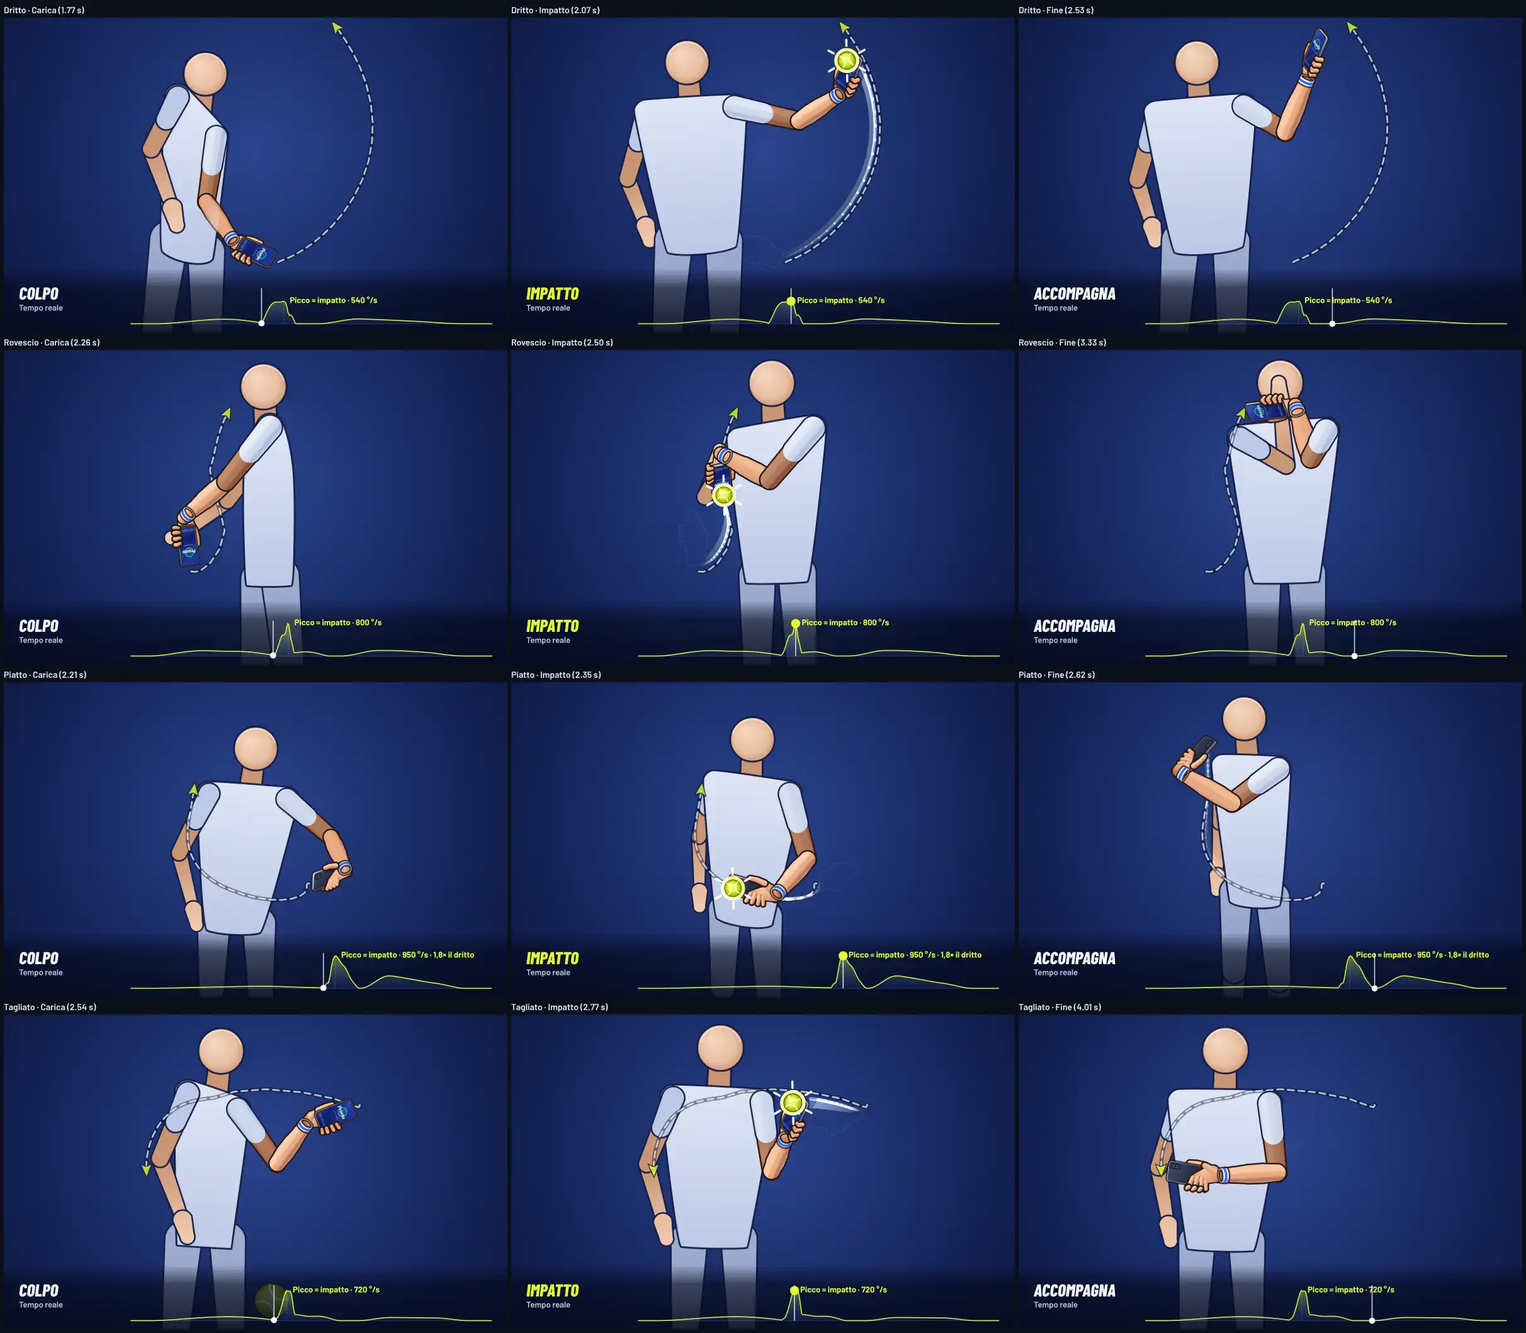
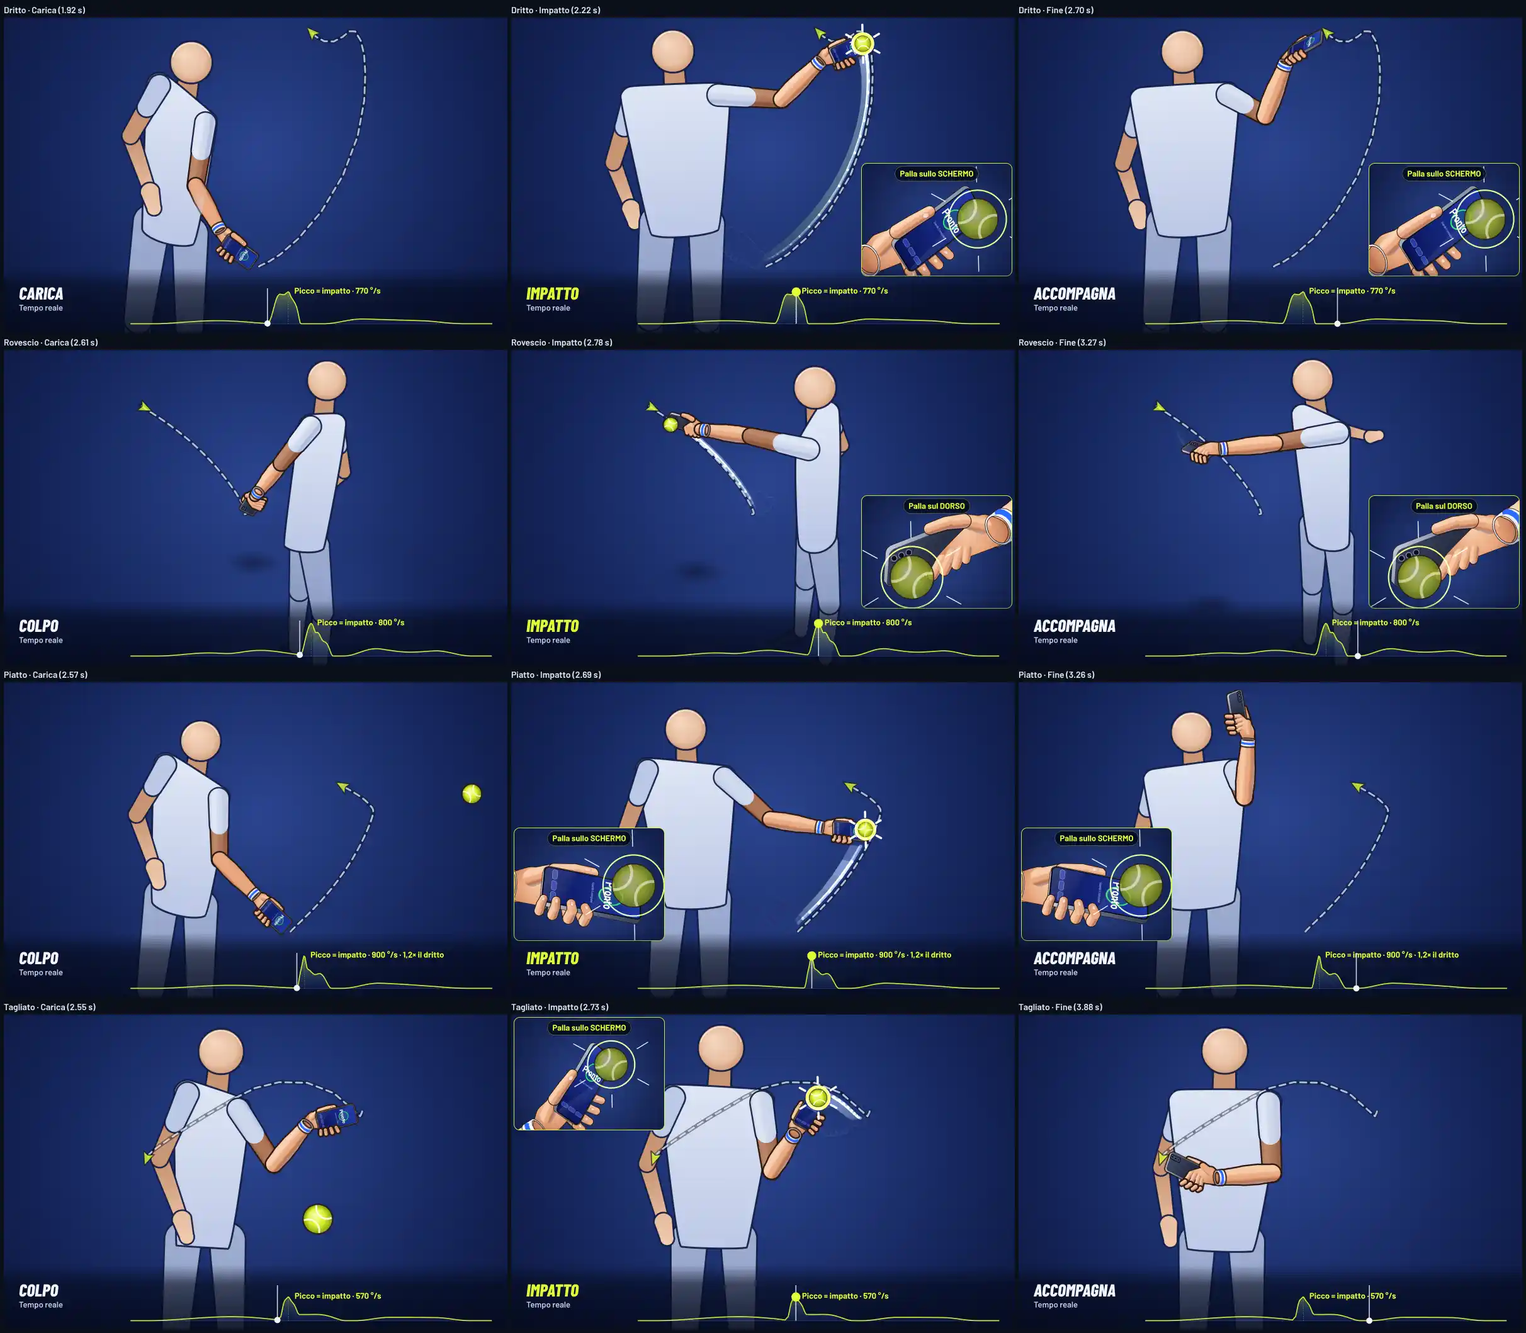
B17.1 passo C2: primo piano rifinito (dorso visto dalla cima, palla velata, posto che evita il braccio libero, specchio del mancino), fogli VC, O e C-anim rifatti e guardati, confronto con il primo piano dell'animazione, gesti-dal-video.md §7, stato
Claude-Session: https://claude.ai/code/session_014xUKe3fJojkqNghZjqDcyr

diff --git a/natpf-tennis/src/natpf/natpf_gesture_demo.js b/natpf-tennis/src/natpf/natpf_gesture_demo.js
@@ -1127,11 +1127,13 @@ export function ghostAlpha(P, keys, i, t, follow){
 // DORSO»). La camera del primo piano guarda la faccia che colpisce di lato, IMPACT_CLOSE.side attorno all'asse del telefono
 // verso la camera principale (stesso lato dell'immagine grande) e IMPACT_CLOSE.tilt verso il fondo del telefono: la palla, che
 // sta davanti alla faccia vicino alla cima, si proietta in parte fuori dal telefono e lascia vedere il vetro con «Pronto» o il
-// dorso con le fotocamere (provati 35° verso il fondo e 20° di lato: nel rovescio la mano, più vicina alla camera, copriva il
-// dorso); a 1,1 m, con la mano intera nel quadro; specchiata come la camera principale. Il riquadro si disegna una volta per scheda, mano e misura e poi si copia (costo di
+// dorso con le fotocamere. Per il dorso (rovescio, tagliato di rovescio) tiltBack/sideBack: 30° verso la CIMA e 50° di lato,
+// perché il palmo sta sul dorso e, guardato dalla parte del fondo, la mano più vicina alla camera copriva il dorso (provati
+// 35°/20°, 10°/45°, 0°/65°: fogli nello scratchpad b17C2). A 1,1 m, con la mano intera nel quadro; specchiata come la camera
+// principale. La palla nel primo piano è velata (0,6) con il contorno pieno: copre quasi tutta la larghezza del telefono. Il riquadro si disegna una volta per scheda, mano e misura e poi si copia (costo di
 // un drawImage); il posto (uno dei quattro angoli dello stadio sopra la banda) è quello che copre meno il soggetto vivo
 // (telefono, mano, braccio, palla) dal contatto alla fine del riquadro, poi il busto. Solo disegno: la posa non cambia.
-export const IMPACT_CLOSE = Object.freeze({ tilt: 10, side: 45, from: -.07, fadeIn: .05, hold: 1.0, fadeOut: .15, w: .3, aspect: .75 });
+export const IMPACT_CLOSE = Object.freeze({ tilt: 10, side: 45, tiltBack: -30, sideBack: 50, from: -.04, fadeIn: .03, hold: 1.0, fadeOut: .15, w: .3, aspect: .75 });
 const FACE_TEXT = Object.freeze({ 1: 'Palla sullo SCHERMO', '-1': 'Palla sul DORSO' });
 export const impactCloseText = id => IMPACT_FACE[id] ? FACE_TEXT[IMPACT_FACE[id] > 0 ? 1 : '-1'] : null;
 // visibilità del riquadro all'istante t (0…1)
@@ -1147,7 +1149,7 @@ export function impactCloseSize(W, H){
 // camera del primo piano: posa del telefono R e punto di contatto CP (mondo della posa disegnata), camera principale
 function impactCloseCam(R, CP, ball, main, w, h, cap, H_){
   const n0 = qrot(R.q, [0, 0, 1]), nf = mul(n0, dot(n0, sub(CP, R.pos)) >= 0 ? 1 : -1), ay = qrot(R.q, [0, 1, 0]), ax = qrot(R.q, [1, 0, 0]);
-  const K = IMPACT_CLOSE, a = K.tilt*Math.PI/180, b = K.side*Math.PI/180, sx = dot(ax, sub(main.eye, R.pos)) >= 0 ? 1 : -1;
+  const K = IMPACT_CLOSE, back = dot(nf, n0) < 0, a = (back ? K.tiltBack : K.tilt)*Math.PI/180, b = (back ? K.sideBack : K.side)*Math.PI/180, sx = dot(ax, sub(main.eye, R.pos)) >= 0 ? 1 : -1;
   const dir = norm(add(add(mul(nf, Math.cos(a)*Math.cos(b)), mul(ay, -Math.sin(a))), mul(ax, sx*Math.sin(b)*Math.cos(a))));
   const T = v => add(R.pos, qrot(R.q, v)), pts = [];
   for (const [x, y] of [[-HW, -HH], [HW, -HH], [-HW, HH], [HW, HH]]) for (const z of [-HD, HD]) pts.push(T([x, y, z]));
@@ -1286,8 +1288,9 @@ export class NatpfGestureDemo {
     // metà opacità con il contorno tratteggiato, così all'impatto non sparisce mai (brief §5.6.2)
     else if (ball && ballFirst && ballAlpha > .01 && !K.figure && F.phoneHull) drawBallThrough(c, cam, ball, spin, st, F.phoneHull, ballAlpha);
     if (CPm && !impactBehind) drawImpact(c, cam, CPm, tt - P.contact, st);
-    // primo piano dell'impatto (passo C2): le etichette dei fantasmi non ci vanno mai sopra (il suo posto è fisso per scheda)
-    const close = !compact && !K.close && IMPACT_FACE[id] && wholeFrame(CS, W, H) ? this._impactClose(M, u) : null;
+    // primo piano dell'impatto (passo C2): le etichette dei fantasmi non ci vanno mai sopra (il suo posto è fisso per scheda).
+    // Solo con le coreografie del video e la camera della scheda (gli strumenti che sostituiscono demo._cam, fogli O, non lo hanno)
+    const close = !compact && !K.close && IMPACT_FACE[id] && M.set === 'video' && wholeFrame(CS, W, H) && !Object.hasOwn(this, '_cam') ? this._impactClose(M, u) : null;
     if (!compact && !K.hud){
       const taken = close ? [close.box] : [];
       for (const g of ghosts) if (g.a > .01) this._ghostLabel(c, cam, g, F, u, taken);
@@ -1318,7 +1321,10 @@ export class NatpfGestureDemo {
     const behind = ballBehind(ccam, Rc, ball);
     if (behind) drawBall(x, ccam, ball, .6, sti);
     const F = drawFigure(x, ccam, Rc, sti, H_);
-    if (!behind) drawBall(x, ccam, ball, .6, sti); else if (F.phoneHull) drawBallThrough(x, ccam, ball, .6, sti, F.phoneHull, 1);
+    // palla davanti alla faccia: velata (0,6) con il contorno pieno, così sotto si legge la faccia che colpisce (vetro con
+    // «Pronto» o dorso con le fotocamere: la palla, 6,6 cm, copre quasi tutta la larghezza del telefono, 7,9 cm)
+    if (!behind){ const bb = drawBall(x, ccam, ball, .6, sti, .6); x.beginPath(); x.arc(bb.p.x, bb.p.y, bb.r, 0, 2*Math.PI); x.lineWidth = Math.max(1.5, sti.ow*1.2); x.strokeStyle = css(LINE, .9); x.stroke(); }
+    else if (F.phoneHull) drawBallThrough(x, ccam, ball, .6, sti, F.phoneHull, 1);
     drawImpact(x, ccam, CP, .015, sti);
     x.restore();
     x.beginPath(); x.roundRect(1, 1, w - 2, h - 2, r); x.lineWidth = 2; x.strokeStyle = css(BALL, .9); x.stroke();
@@ -1328,7 +1334,9 @@ export class NatpfGestureDemo {
     const n0 = qrot(Rc.q, [0, 0, 1]), nf = mul(n0, face), ang = cm => Math.acos(Math.max(-1, Math.min(1, dot(nf, norm(sub(cm.eye, Rc.pos))))))/D;
     // posto: l'angolo che copre meno il soggetto vivo (telefono, mano, braccio, palla) dal contatto alla fine del riquadro, poi il
     // busto; a pari merito in alto e dalla parte opposta alla mano all'impatto
-    const m = 8, cands = [[m, m], [st.W - w - m, m], [m, top - h - m], [st.W - w - m, top - h - m]].map(([x0, y0]) => ({ x0, y0, x1: x0 + w, y1: y0 + h }));
+    // (a pari merito vince il primo: per il mancino l'ordine è specchiato, così il riquadro è lo specchio di quello del destro)
+    const m = 8, L = this.hand === 'left', xl = m, xr = st.W - w - m, names = L ? ['alto a destra', 'alto a sinistra', 'basso a destra', 'basso a sinistra'] : ['alto a sinistra', 'alto a destra', 'basso a sinistra', 'basso a destra'];
+    const cands = [[L ? xr : xl, m], [L ? xl : xr, m], [L ? xr : xl, top - h - m], [L ? xl : xr, top - h - m]].map(([x0, y0]) => ({ x0, y0, x1: x0 + w, y1: y0 + h }));
     const handX = main.p(Rc.pos).x, cost = cands.map((b, i) => (i > 1 ? .5 : 0) + (Math.abs((b.x0 + b.x1)/2 - handX) < st.W/2 ? .25 : 0));
     // campioni fitti attorno al contatto (il telefono del piatto attraversa 100 px in 0,1 s) e radi fino alla fine del riquadro
     const K = IMPACT_CLOSE, N = 10, TS = [-.05, -.03, -.015, 0, .015, .03, .05].map(k => P.contact + k);
@@ -1340,11 +1348,14 @@ export class NatpfGestureDemo {
       const occ = liveTest(Fs);
       const bR = gestureBall(id, ts, { ...o, hand: this.hand }), bs = bR ? (this.hand === 'left' ? mirrorPos(bR) : bR) : null, bp = bs ? cm.p(bs) : null, br = bs ? cm.rad(bs, BALL_R) : 0;
       const B = Rs.chain ? bodyGeom(cm, Rs.chain) : null;
+      // braccio libero che lavora (equilibrio del rovescio a una mano): anche lui non va sotto il riquadro
+      const fr = gestureFreeHand(id, ts, o), FA = fr && Rs.chain ? freeArm(Rs, fr) : null, fpts = FA ? [FA.W, add(FA.W, mul(sub(FA.E, FA.W), .5)), FA.E].map(X => cm.p(X)) : [];
       // all'impatto (primi campioni) telefono, mano e palla vivi non vanno mai sotto il riquadro
       const hard = ts <= P.contact + .05 ? 50 : 1;
       cands.forEach((b, i) => {
         cost[i] += occ(b)*2*hard + (liveHits(Fs, b) ? 6*hard : 0);
         if (bp && bp.x + br > b.x0 && bp.x - br < b.x1 && bp.y + br > b.y0 && bp.y - br < b.y1) cost[i] += 8*hard;
+        for (const q of fpts) if (q.x > b.x0 - 6 && q.x < b.x1 + 6 && q.y > b.y0 - 6 && q.y < b.y1 + 6) cost[i] += 2;
         if (B){ const q = B.box, ov = Math.max(0, Math.min(q.x1, b.x1) - Math.max(q.x0, b.x0))*Math.max(0, Math.min(q.y1, b.y1) - Math.max(q.y0, b.y0)); cost[i] += ov/(w*h)*3;
           // la testa coperta si nota più del busto
           const hc = B.head.c; if (Math.hypot(Math.max(b.x0 - hc.x, 0, hc.x - b.x1), Math.max(b.y0 - hc.y, 0, hc.y - b.y1)) < B.head.r) cost[i] += 3; }
@@ -1353,7 +1364,7 @@ export class NatpfGestureDemo {
     let bi = 0; cost.forEach((v, i) => { if (v < cost[bi] - 1e-9) bi = i; });
     const b = cands[bi];
     this._closeKey = key;
-    return (this._closeV = { cv, rect: { x: b.x0, y: b.y0, w, h }, box: b, meta: { text, face, cost: cost[bi], faceToClose: ang(ccam), faceToMain: ang(main), corner: ['alto a sinistra', 'alto a destra', 'basso a sinistra', 'basso a destra'][bi] } });
+    return (this._closeV = { cv, rect: { x: b.x0, y: b.y0, w, h }, box: b, meta: { text, face, cost: cost[bi], faceToClose: ang(ccam), faceToMain: ang(main), corner: names[bi] } });
   }
   // fondo: gradiente radiale più chiaro al centro dello stadio (fatto una volta per misura e copiato), piano di gioco
   // accennato sotto la mano (alone e ombra morbida della mano): dà alto e basso senza linee che tagliano il quadro

diff --git a/docs/b17/gesti-dal-video.md b/docs/b17/gesti-dal-video.md
@@ -1,5 +1,8 @@
 # B17.1 · passo C · Il disegno dei gesti come il video: camera frontale specchiata, gesto intero, figura chiara
 
+> **Passo C2 (10/11)**: disegno allineato al passo B3 — primo piano dell'impatto («Palla sullo SCHERMO» nei colpi di dritto,
+> «Palla sul DORSO» nei rovesci) e braccio libero del rovescio a una mano in vista: §7 (misure, decisioni, limiti).
+>
 > **Passo B3 (10/11 notte)**: il rovescio è ora **a una mano** (decisione dell'utente) e all'impatto il dritto colpisce con lo
 > schermo verso la palla, il rovescio con il dorso; coreografie, camere di piatto, volée e incrociato e misure aggiornate in
 > `docs/b17/ottimizzazione.md` §9. Le righe qui sotto sul «rovescio a due mani» descrivono il passo C.
@@ -133,3 +136,80 @@ nelle misure.
 - Scheda «Presa»: la presa è quella del video (`PHONE_IN_HAND_VIDEO`) nella posa delle foto (B2); ora vista come allo specchio.
   La foto dell'utente da davanti è quella del B2 (giudicata coerente lì), non riesaminata in questo passo.
 - I fogli VC si guardano su 10 istanti: scatti tra un istante e l'altro sono controllati solo dalla prova delle sequenze.
+
+## 7. Passo C2 (10/11/2026): rovescio a una mano e faccia che colpisce, nel disegno
+Richieste dell'utente del 09/11 notte sulle anteprime VC-*: (1) «Per il rovescio, a una mano»; (2) «con il dritto la pallina venga
+colpita con il display in maniera frontale»; (3) «il rovescio invece stesso movimento ma con l'altro lato». Le coreografie sono
+quelle del passo B3 (`docs/b17/ottimizzazione.md` §9: faccia che colpisce entro 17° dalla rete, incrociato 21,1°); qui cambia
+solo il disegno (`natpf_gesture_demo.js`, costanti del braccio libero in `natpf_gesture_pose.js`). Riconoscimento non toccato.
+
+### 7.1 Che cosa vede la camera principale all'impatto (misura, 640×400, destro = mancino)
+| Scheda | Faccia che colpisce | Angolo tra la faccia e il raggio verso la camera | Telefono all'impatto | Palla |
+|---|---|---|---|---|
+| Dritto / piatto / volée | schermo | 28° / 26° / 26° | 42 / 43 / 48 px | davanti al vetro |
+| Incrociato / lungolinea | schermo | 24° / 43° | 44 / 36 px | davanti al vetro |
+| Tagliato di dritto | schermo | 10° | 51 px | davanti al vetro |
+| Rovescio | dorso | 53° | 34 px | davanti al dorso |
+| Tagliato di rovescio | dorso | 49° | 43 px | davanti al dorso |
+
+Le camere frontali del passo C stanno dalla parte della rete: all'impatto vedono proprio la faccia che colpisce (sotto 90° in
+tutti i colpi), quindi la vista principale è già quella giusta. Ma a 640×400 il telefono è lungo 34–51 px e la palla (6,6 cm,
+quasi la larghezza del telefono, 7,9 cm), che arriva dalla camera, ne copre metà: schermo e dorso non si distinguono (fotogrammi
+nello scratchpad `b17C2/a.png`). Girare la camera principale non serve (la faccia è già verso la camera) e ingrandire il telefono
+toglie il gesto intero. **Decisione: primo piano dell'impatto** in un riquadro.
+
+### 7.2 Primo piano dell'impatto (`IMPACT_CLOSE`)
+- Da 640×400 in su (camera ferma sul gesto intero), nei colpi con la faccia d'impatto (dritto, piatto, incrociato, lungolinea,
+  tagliato, volée: «Palla sullo SCHERMO»; rovescio e tagliato di rovescio: «Palla sul DORSO»). A 448×280 e 200×200 nessun
+  riquadro: lì la camera segue la mano e il telefono all'impatto è lungo 47–99 px.
+- Compare 40 ms prima del contatto (pieno 10 ms prima) e resta fino a 1 s del gesto dopo il contatto (2 s nel rallentato ×0,5),
+  poi si spegne in 0,15 s. È il fermo immagine dell'impatto: la mano con il telefono e la palla appoggiata sulla faccia che
+  colpisce, il lampo, la scritta in giallo.
+- Camera del primo piano: dalla parte della palla, 45° di lato verso la camera principale e 10° verso il fondo per lo schermo;
+  per il dorso 50° di lato e 30° verso la cima (il palmo sta sul dorso: dal fondo la mano copriva il dorso; provati 35°/20°,
+  10°/45°, 0°/65°). Faccia che colpisce a 45° (schermo) e 54–55° (dorso) dal raggio del primo piano. Palla velata (0,6) con il
+  contorno pieno: sotto si leggono il vetro con «Pronto» o il dorso con le fotocamere. Specchiata come la camera principale
+  (il mancino vede lo specchio, riquadro nell'angolo speculare: test).
+- Posto: uno dei quattro angoli dello stadio sopra la banda della curva, scelto una volta per scheda, mano e misura: mai sopra
+  telefono, mano e palla vivi attorno al contatto (prova esatta sulle sagome, `liveHits`), poi il meno possibile sopra il
+  soggetto e il braccio libero fino alla fine del riquadro, poi testa e busto. Le etichette dei fantasmi lo evitano.
+- Costo: il riquadro si disegna una volta per scheda (canvas a parte, al primo fotogramma della scheda: 5–9 ms una volta, a
+  640×400 e a 1600×1000, contro ~1 ms di un fotogramma normale) e poi si copia; disegno a 640×400 su tutte le schede media
+  1,16 ms per fotogramma, con la rasterizzazione 2,36 ms (≤ 4); nelle esecuzioni intermedie 1,26–1,41 / 2,55–2,77 ms (la misura
+  oscilla di ~0,2 ms tra un'esecuzione e l'altra). `natpf-modale-gesti` 18/18: 59,9 fps a 1280×720 e 60,2 fps a 1920×1080
+  sopra l'arena ferma (Chromium senza GPU, disegno 1,2–1,3 ms), due animazioni insieme 57,7 fps.
+
+### 7.3 Rovescio a una mano: il braccio libero
+Nel passo B3 la mano libera non toccava più il telefono, ma con la camera davanti a destra (busto quasi di profilo) l'equilibrio
+non si vedeva: la mano aperta «dietro e di lato» (−0,42; 0,18; 0,30) restava dietro il busto, e nella carica (−0,24; 0; 0,08)
+era una mano sull'anca con il gomito in fuori. Ora: `FREE_BALANCE` (−0,34; 0,16; 0,50) dal bacino nel riferimento del busto,
+braccio disteso dietro e un poco in basso, «ad ali» come nei rovesci a una mano (si vede uscire dietro la schiena dal contatto
+alla fine: test, mano fuori dalla sagoma del busto in ≥ 80 % dei campioni dell'accompagnamento); `FREE_PREP` (−0,26; −0,04;
+−0,10) rilassata davanti al fianco, a ≥ 0,3 m dal telefono. Solo disegno.
+
+### 7.4 Prove (passo C2)
+- `natpf-gesti-fotogrammi` 31/31 (ultima esecuzione con i fogli): lista del B9 come nel passo B3 (limiti dichiarati di allora invariati: rovescio 20 % a
+  640×400 e 19 % a 1600×1000, dritto, lungolinea, volée, tagliato di rovescio 27 % a 1600×1000) più il primo piano: presente
+  all'impatto con la scritta giusta, mai sopra telefono, mano, palla o etichette, dentro lo stadio.
+- Test del gioco nuovi: «primo piano dell'impatto…» (16 casi: scritta, angoli, posto, tempi, specchio, assente a 448×280 e
+  nei colpi senza faccia d'impatto) e il braccio libero in vista.
+- Fogli `VC-*.webp` (640×400: video specchiato | animazione | tutorial di prima) e `O-*.webp` rifatti; `C-anim-*.webp` nelle
+  quattro misure rifatti. Prove: confronto VC 29/29 (nuova: primo piano con la scritta giusta all'impatto, assente nel
+  servizio), O 28/28, `natpf-gesti-sequenze` 91/91 (quattro misure, destro e mancino), `natpf-tutorial-phone` 52/52,
+  `natpf-training-flow` 22/22, `natpf-split-ready` 34/34. Guardati: VC di dritto, rovescio, tagliato e tagliato di rovescio
+  (righe colpo, impatto, accompagnamento), C-anim 640×400 fogli 1 e 2, 1600×1000 foglio 1; non guardati uno per uno i fogli
+  delle sequenze (solo le misure) né i C-anim 448×280 e 200×200 (lì il disegno non cambia: niente riquadro).
+
+### 7.5 Limiti e cose da chiedere
+- **Il riquadro copre parte della figura** dove nessun angolo è libero: piatto (busto, in basso a sinistra, per circa 1 s dopo
+  il contatto) e tagliato (spalla e inizio della freccia, in alto a sinistra). Mai telefono, mano o palla all'impatto. Posti
+  (destro; il mancino lo specchio): dritto, incrociato, lungolinea, volée in basso a destra; rovescio e tagliato di rovescio in
+  basso a sinistra a 640×400 (rovescio in basso a destra a 1600×1000); piatto in basso a sinistra; tagliato in alto a sinistra.
+- La palla copre comunque una parte della faccia (è larga quasi come il telefono): per questo è velata nel riquadro.
+- Nel rovescio il dorso nel riquadro è in parte coperto dalla mano (presa a racchetta: il palmo sul dorso); si vedono il
+  bordo con le fotocamere e la palla sul dorso.
+- La camera principale del dritto, dell'incrociato e del lungolinea è dal basso (elevazione −22,5°): all'impatto l'occhio della
+  camera è a −0,13 m (dritto) dal pavimento, cioè sotto il piano del campo. Nel disegno non c'è il piano (solo l'alone), quindi
+  non si vede, ma è una camera impossibile per un telefono appoggiato; non toccata in questo passo (cambia la misura del 28 %:
+  `STATO-C.md`).
+- Niente telefono vero né utente: da far vedere all'utente il riquadro (posto, durata, scritta).

diff --git a/docs/b17/STATO-C2.md b/docs/b17/STATO-C2.md
@@ -24,15 +24,30 @@
 - Verifiche: gioco 991/991, sito 200/200; `natpf-gesti-fotogrammi` 15/15 (NOFOGLI): costo del disegno 640×400 media 1,26 ms
   (con la rasterizzazione 2,55 ms).
 
+## Giro 2 (FATTO, commit «passo C2: fogli, prove, documento»)
+- Primo piano rifinito: camera per il dorso 50° di lato e 30° verso la cima (dal fondo la mano copriva il dorso), palla velata
+  con il contorno, compare 40 ms prima del contatto; il posto evita anche il braccio libero in equilibrio; ordine degli angoli
+  specchiato per il mancino (test: riquadro speculare); niente riquadro con le camere sostituite dagli strumenti (fogli O).
+- `natpf-gesti-video-confronto.mjs`: nei fogli VC il primo piano è quello dell'animazione (prima lo disegnava lo script), sotto
+  l'angolo della faccia all'impatto; verifica nuova «primo piano dell'impatto con la scritta giusta».
+- Fogli `VC-*`, `O-*`, `C-anim-*` (quattro misure, tutti e quattro i fogli) rifatti; guardati VC di dritto, rovescio e tagliati,
+  C-anim 640×400 fogli 1–2 e 1600×1000 foglio 1.
+- Verifiche: gioco 991/991, sito 200/200, build ok; `natpf-gesti-fotogrammi` 31/31 (disegno 640×400 media 1,16 ms, con la
+  rasterizzazione 2,36 ms), `natpf-modale-gesti` 18/18 (59,9 fps a 1280×720, 60,2 a 1920×1080, due animazioni 57,7),
+  confronto VC 29/29 e O 28/28, `natpf-gesti-sequenze` 91/91, `natpf-tutorial-phone` 52/52, `natpf-training-flow` 22/22,
+  `natpf-split-ready` 34/34. Costruzione del riquadro una volta per scheda 5–9 ms.
+- `docs/b17/gesti-dal-video.md` §7 (misure della vista all'impatto, decisione, primo piano, braccio libero, prove, limiti).
+
 ## Prossima azione
-Giro 2: fogli VC-* (640×400) e fotogrammi C-anim-* (640×400, 448×280, 200×200, 1600×1000) rifatti e GUARDATI; prove
-`natpf-gesti-sequenze`, `natpf-modale-gesti`, `natpf-tutorial-phone`, `natpf-training-flow`, `natpf-split-ready`; build;
-`docs/b17/gesti-dal-video.md` §7.
+Passo C2 chiuso. Da mostrare all'utente: il primo piano dell'impatto (posto, durata 1 s, scritta «Palla sullo SCHERMO» /
+«Palla sul DORSO») e il braccio libero «ad ali» del rovescio. Punti aperti (gesti-dal-video.md §7.5): il riquadro copre il busto
+nel piatto e la spalla nel tagliato; camera del dritto con l'occhio sotto il piano del campo (−0,13 m).
 
 ## Come riprendere
 Worktree `.claude/worktrees/wf_bb380d57-57a-1`. Strumenti nello scratchpad `b17C2/` (shot.mjs: fotogrammi di prova con vite
-sulla porta 3851; meta.mjs: misure del primo piano; vista.mjs: faccia vista dalla camera principale). Prove nel browser con
-`CHROMIUM_PATH=/opt/pw-browsers/chromium GAME_PORT=385x`.
+sulla porta 3851; meta.mjs: misure del primo piano; costo.mjs: costo della costruzione; vista.mjs: faccia vista dalla camera
+principale; tutte.sh: tutte le prove nel browser in fila). Prove con `CHROMIUM_PATH=/opt/pw-browsers/chromium GAME_PORT=385x`.
 
 ## Non verificato
-- Niente telefono vero né utente: il primo piano è giudicato sui fogli.
+- Niente telefono vero né utente: il primo piano è giudicato sui fogli. Fogli delle sequenze non guardati uno per uno (solo
+  misure); C-anim a 448×280 e 200×200 non riguardati (lì niente riquadro).
